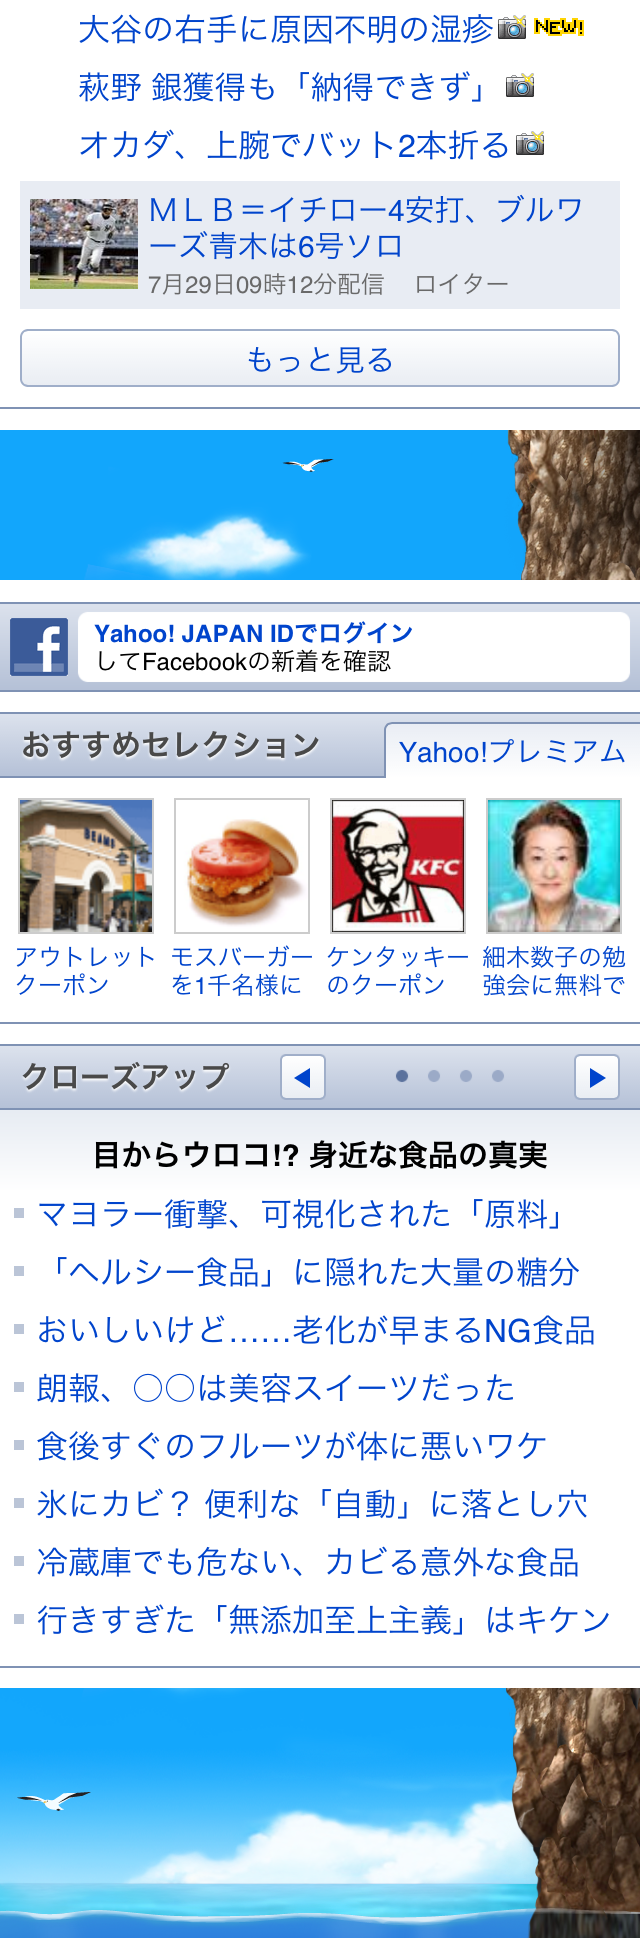
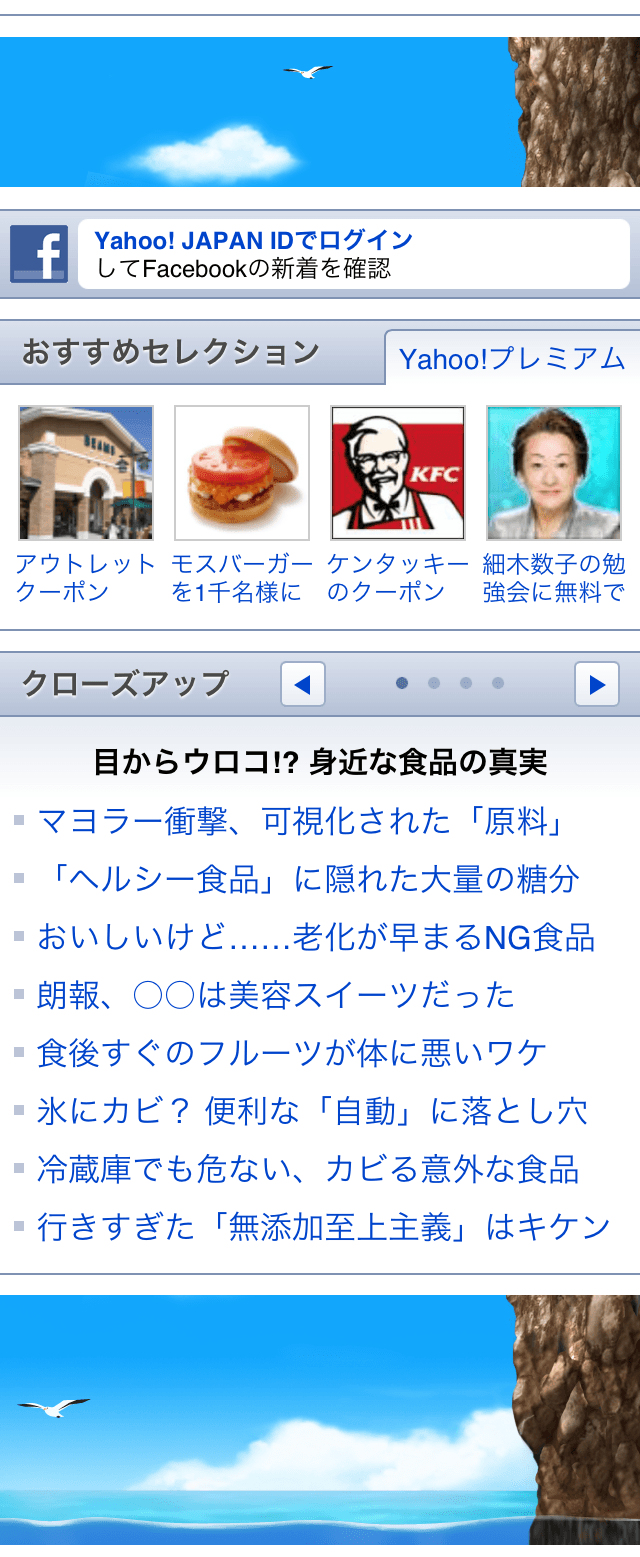
調整：画像差し替え

diff --git a/index.html b/index.html
@@ -1,7 +1,7 @@
 <!DOCTYPE html>
 <head>
 <meta charset="utf-8">
-<title>B</title>
+<title>あきらめない男</title>
 <meta name="description" content="" />
 <meta name="keywords" content="" />
 <meta http-equiv="Content-Script-Type" content="text/javascript" />

diff --git a/js/app.js b/js/app.js
@@ -71,13 +71,12 @@ ScrollManager.prototype = {
 }
 
 ScrollManager.contentHeight = (function(){
-  var h = 444;
+  var h = 504;
 
   if(uaIs("iphone|andorid")) {
     h = $window.height();
     h = h > 444 ? 504 : 504;
   }
-
   return h;
 })();
 
